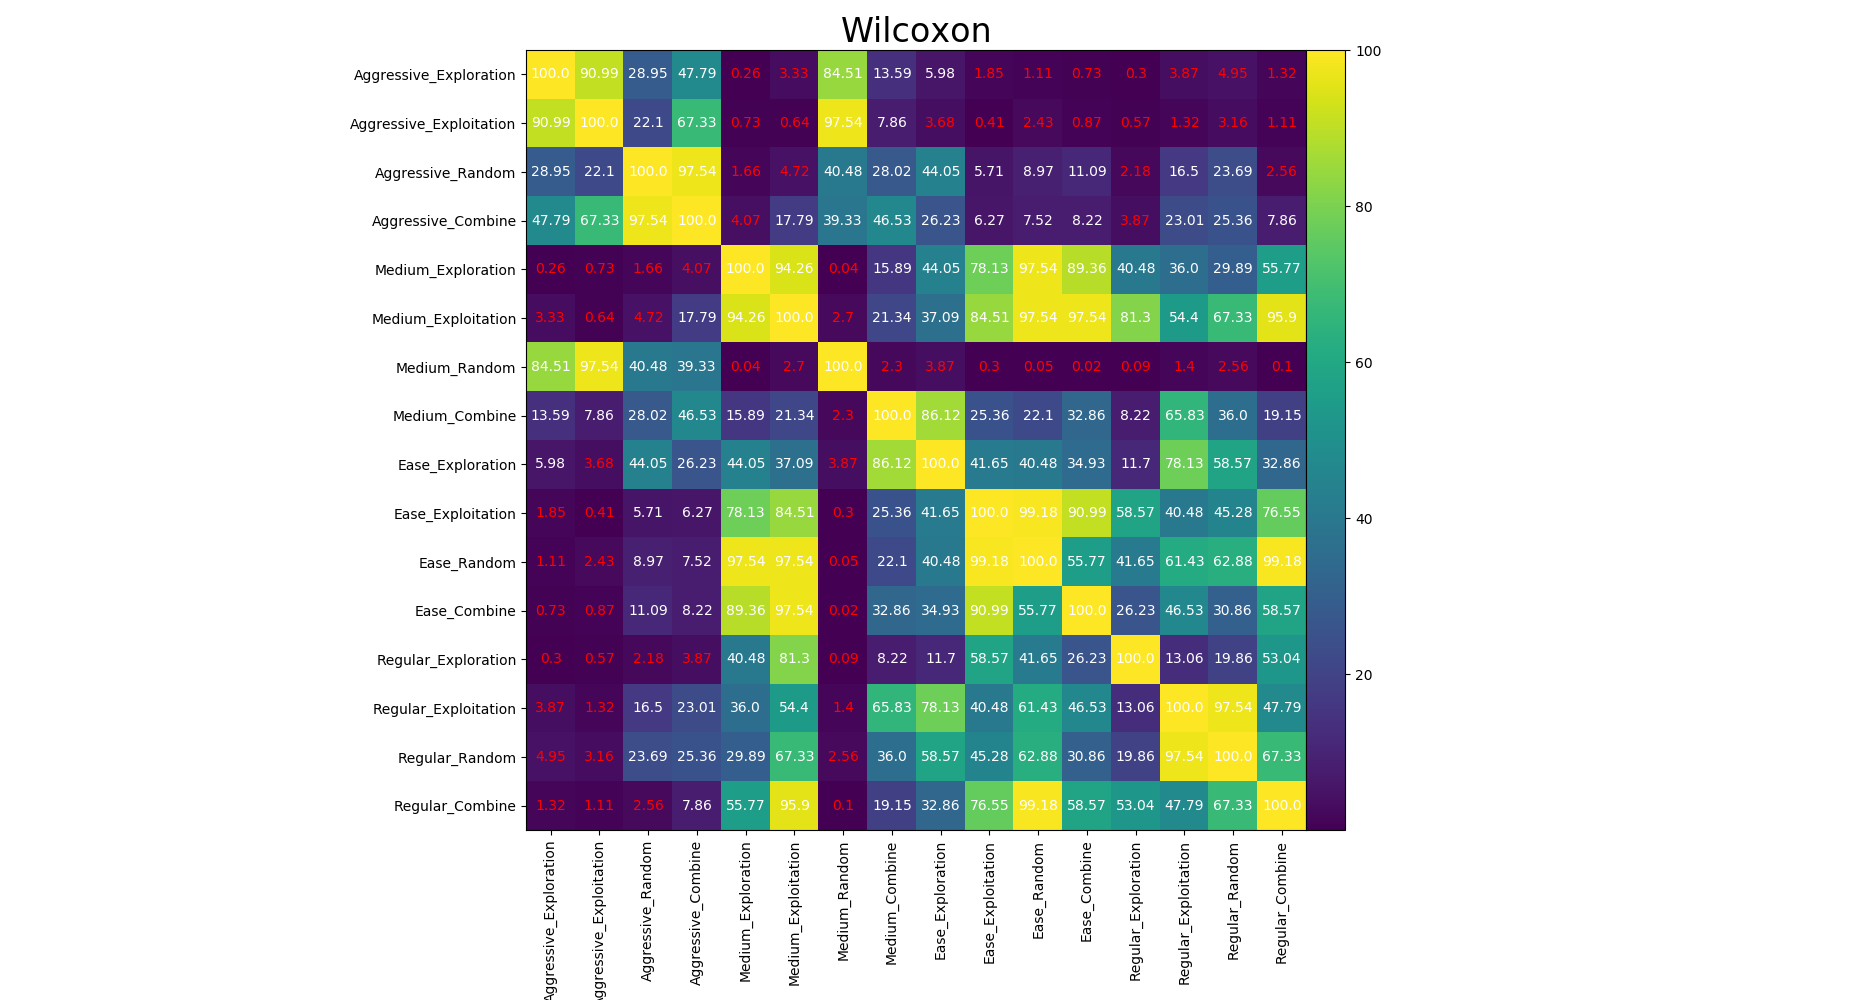
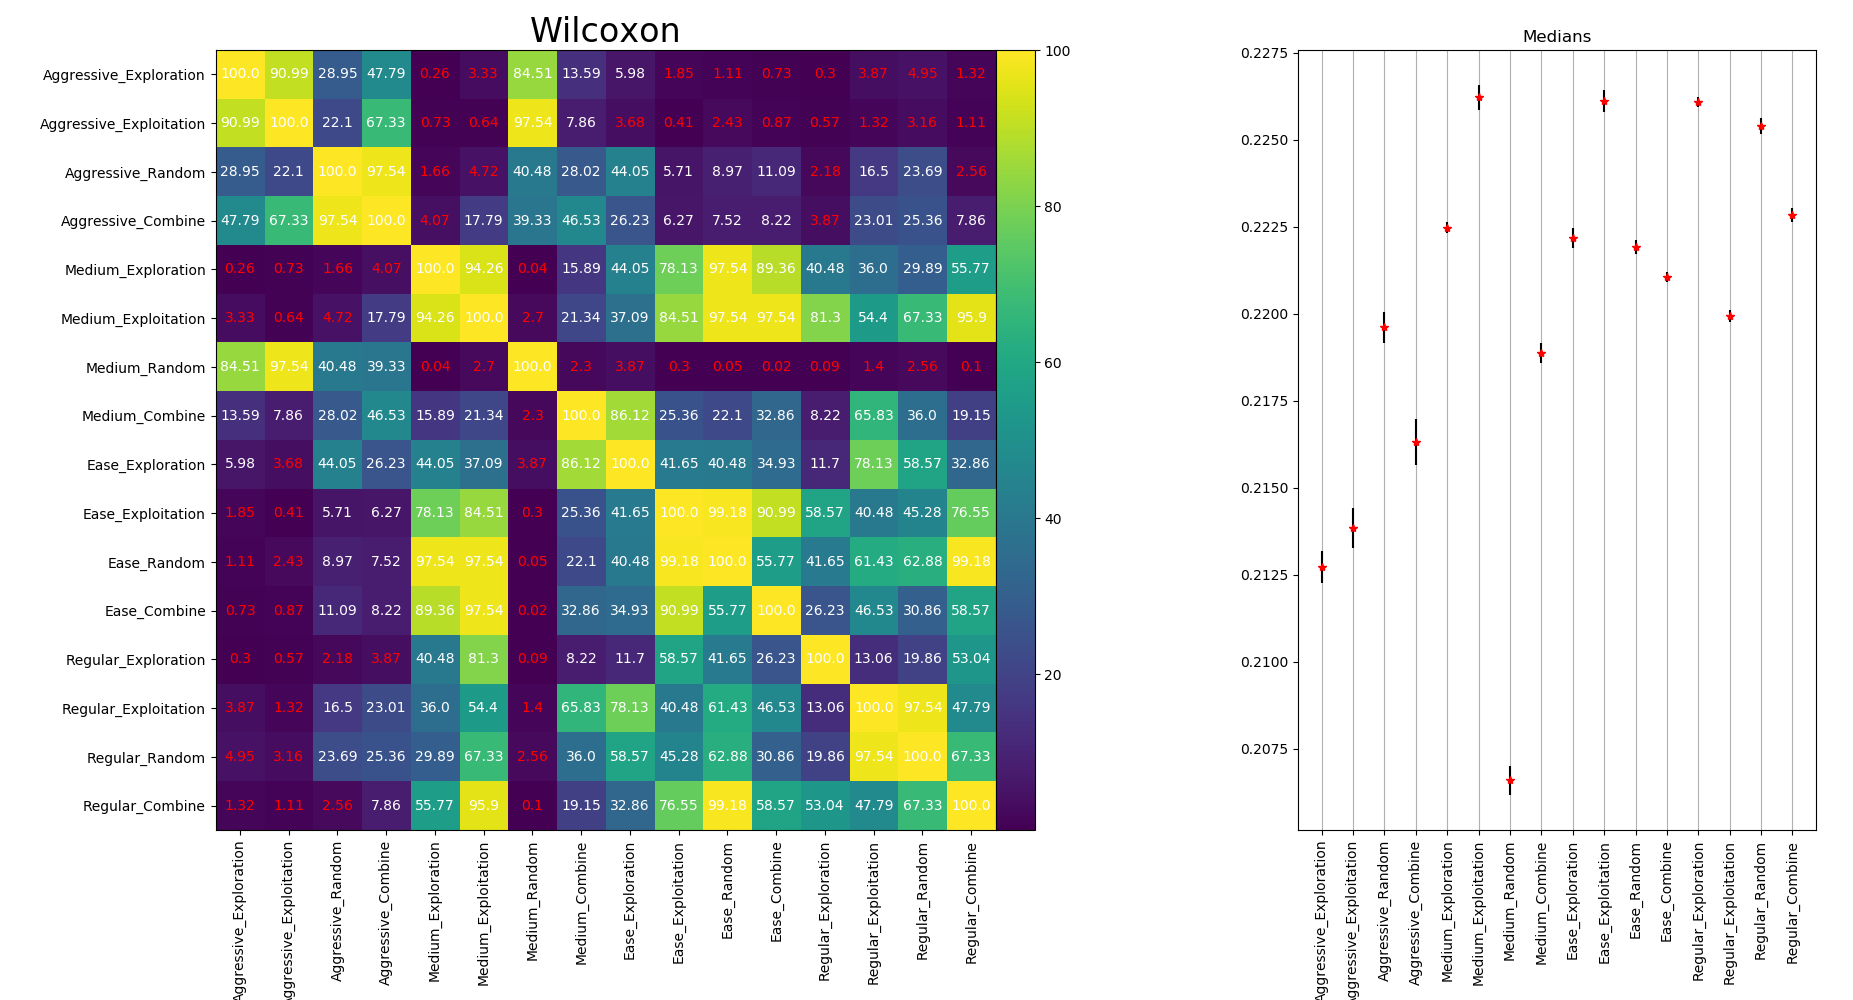
fix the errorbar graph

diff --git a/Code/test_mutation.py b/Code/test_mutation.py
@@ -371,22 +371,20 @@ def woi_comprasion_all(names=["/results/mutauioncheck/22_04_tamir_mut/"]):
 
 
 def plot_wilcoxon(volumes, medians_v, variance_v, labels, titl="Hyper Volume"):
+    labels = set_labels(labels)
     fig = plt.figure(figsize=(24.0, 10.0))
     fig.canvas.set_window_title(titl)
-    plt.subplots_adjust(left=0.03, bottom=0.17, right=0.98, top=0.95)
-    grid = plt.GridSpec(1, 1, wspace=0.2)
+    plt.subplots_adjust(left=0.53, bottom=0.15, right=0.98, top=0.95)
+    grid = plt.GridSpec(1, 3, wspace=0.2)
     # todo - check this
-    # ax = fig.add_subplot(grid[0, -1])
-    # # ax.errorbar(labels, medians_v, yerr=variance_v, ecolor='k', fmt="*r")
-    # print(labels)
-    # print(medians_v)
-    # ax.scatter(labels, medians_v)
-    # # ax.set_xticklabels(labels, rotation="vertical")
-    # ax.set_title("Medians")
-    # ax.grid(True, axis="x")
-    # # for i, med in enumerate(medians_v):
-    # #     ax.annotate(str(variance_v[i]), (i, med), ha='center', va='top')
-    labels = set_labels(labels)
+    ax = fig.add_subplot(grid[0, -1])
+    ax.errorbar(range(16), medians_v, yerr=variance_v, ecolor='k', fmt="*r")
+    ax.set_xticks(range(16))
+    ax.set_xticklabels(labels, rotation="vertical")
+    ax.set_title("Medians")
+    ax.grid(True, axis="x")
+    # for i, med in enumerate(medians_v):
+    #     ax.annotate(str(variance_v[i]), (i, med), ha='center', va='top')
     ax = fig.add_subplot(grid[0, :-1])
     wil = np.ones((len(volumes), len(volumes))) * 100
     for i in range(len(volumes)):
@@ -412,13 +410,6 @@ def plot_wilcoxon(volumes, medians_v, variance_v, labels, titl="Hyper Volume"):
     ax.xaxis.set_ticks_position('bottom')
     ax.set_yticklabels(labels)
     ax.set_title("Wilcoxon", y=1, fontsize=24)
-    # ax = fig.add_subplot(grid[0, -1])
-    # ax.errorbar(labels, medians_v, yerr=variance_v, ecolor='k', fmt="*r")
-    # ax.set_xticklabels(labels, rotation="vertical")
-    # ax.set_title("Medians")
-    # # ax.grid(True, axis="x")
-    # # for i, med in enumerate(medians_v):
-    # #     ax.annotate(str(variance_v[i]), (i, med), ha='center', va='top')
 
 
 def plot_ind_vs_gen(dwoi, gens, labels, title="Hyper Volume"):
@@ -706,7 +697,7 @@ def med_var(arr):
 
 
 if __name__ == '__main__':
-    calc_hv = False
+    calc_hv = True
     create_woi_cr = False
     woi_n_generate = False
     anim = False
@@ -715,7 +706,7 @@ if __name__ == '__main__':
     concept_woi = False
     res2plot = False
     selected_concepts = False
-    hv_in_gen = True
+    hv_in_gen = False
     fol = "/results/mutauioncheck/woi_025_075/30_runs/"
     # end_fol = ""
     sub_fols = ["mut_cr_30/", "mut_cr_50/", "mut_cr_100/", "mut_cr_regular/"]
